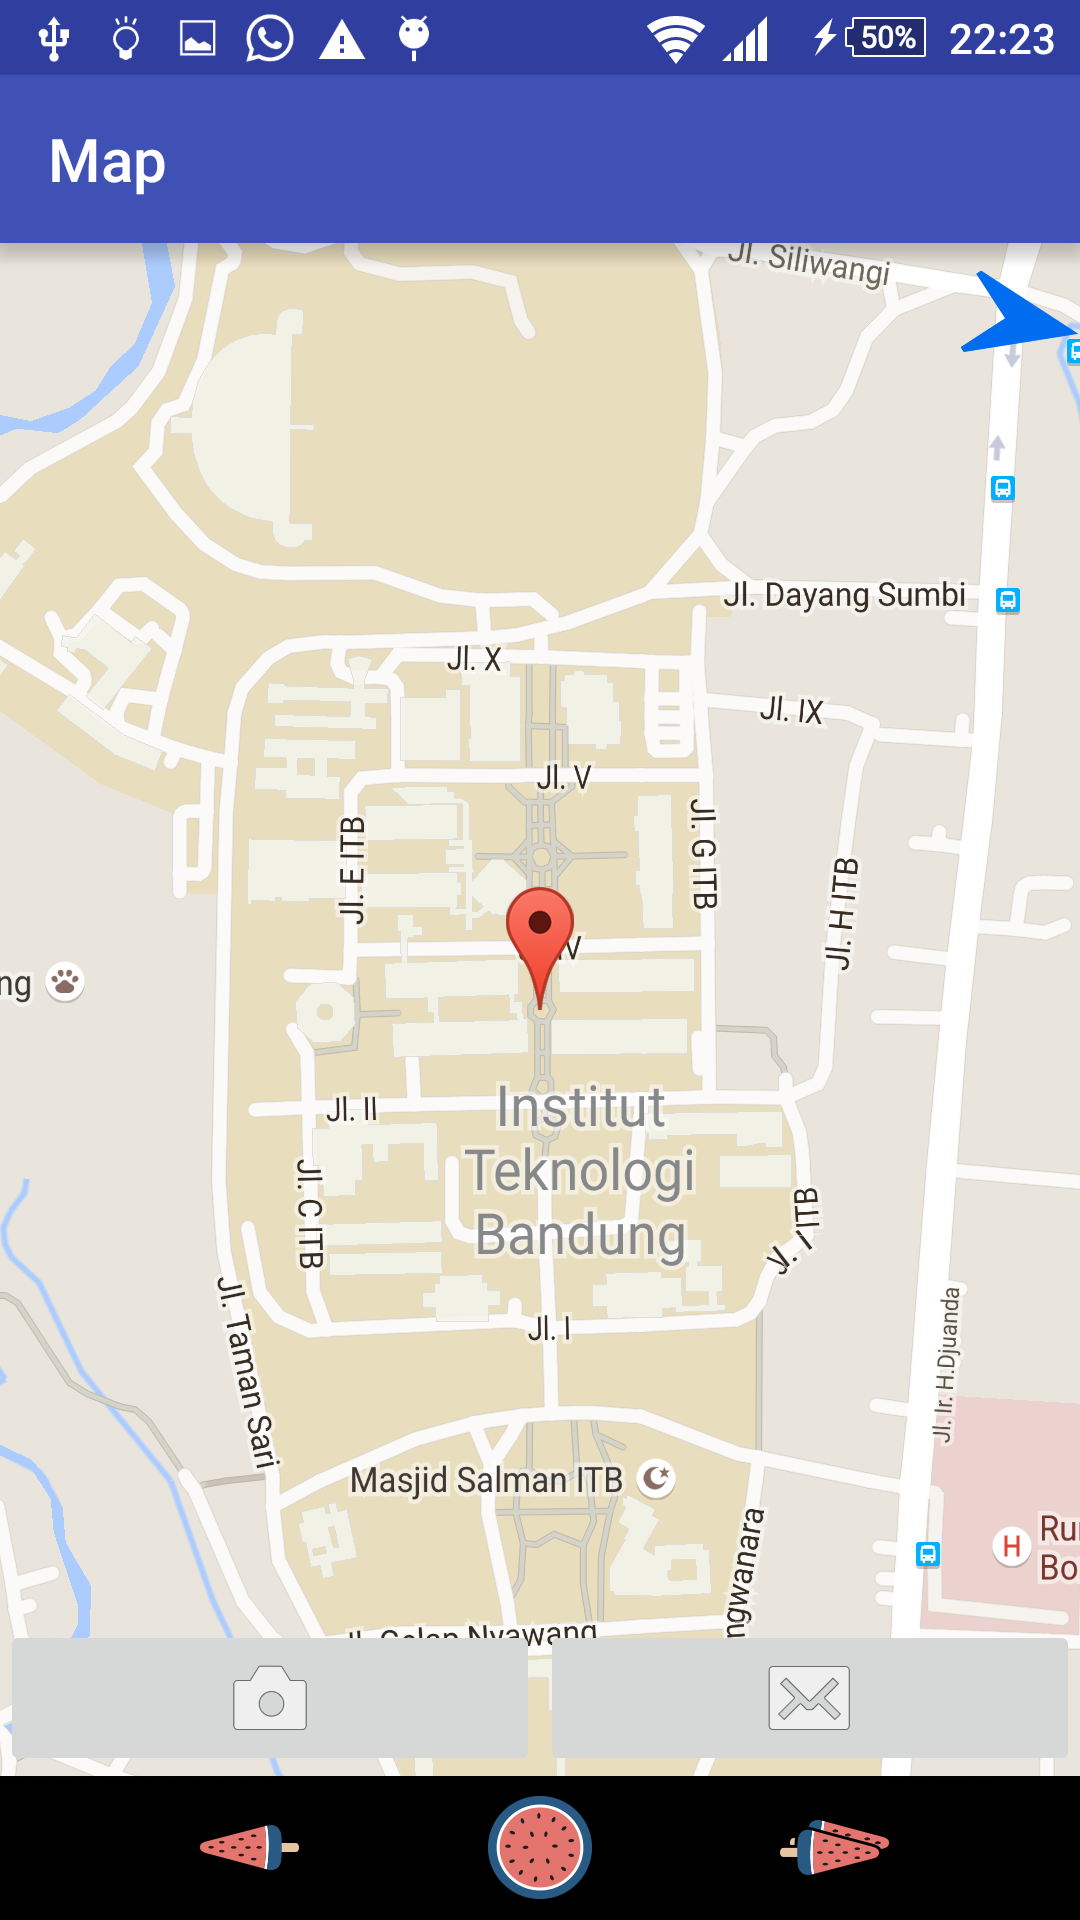
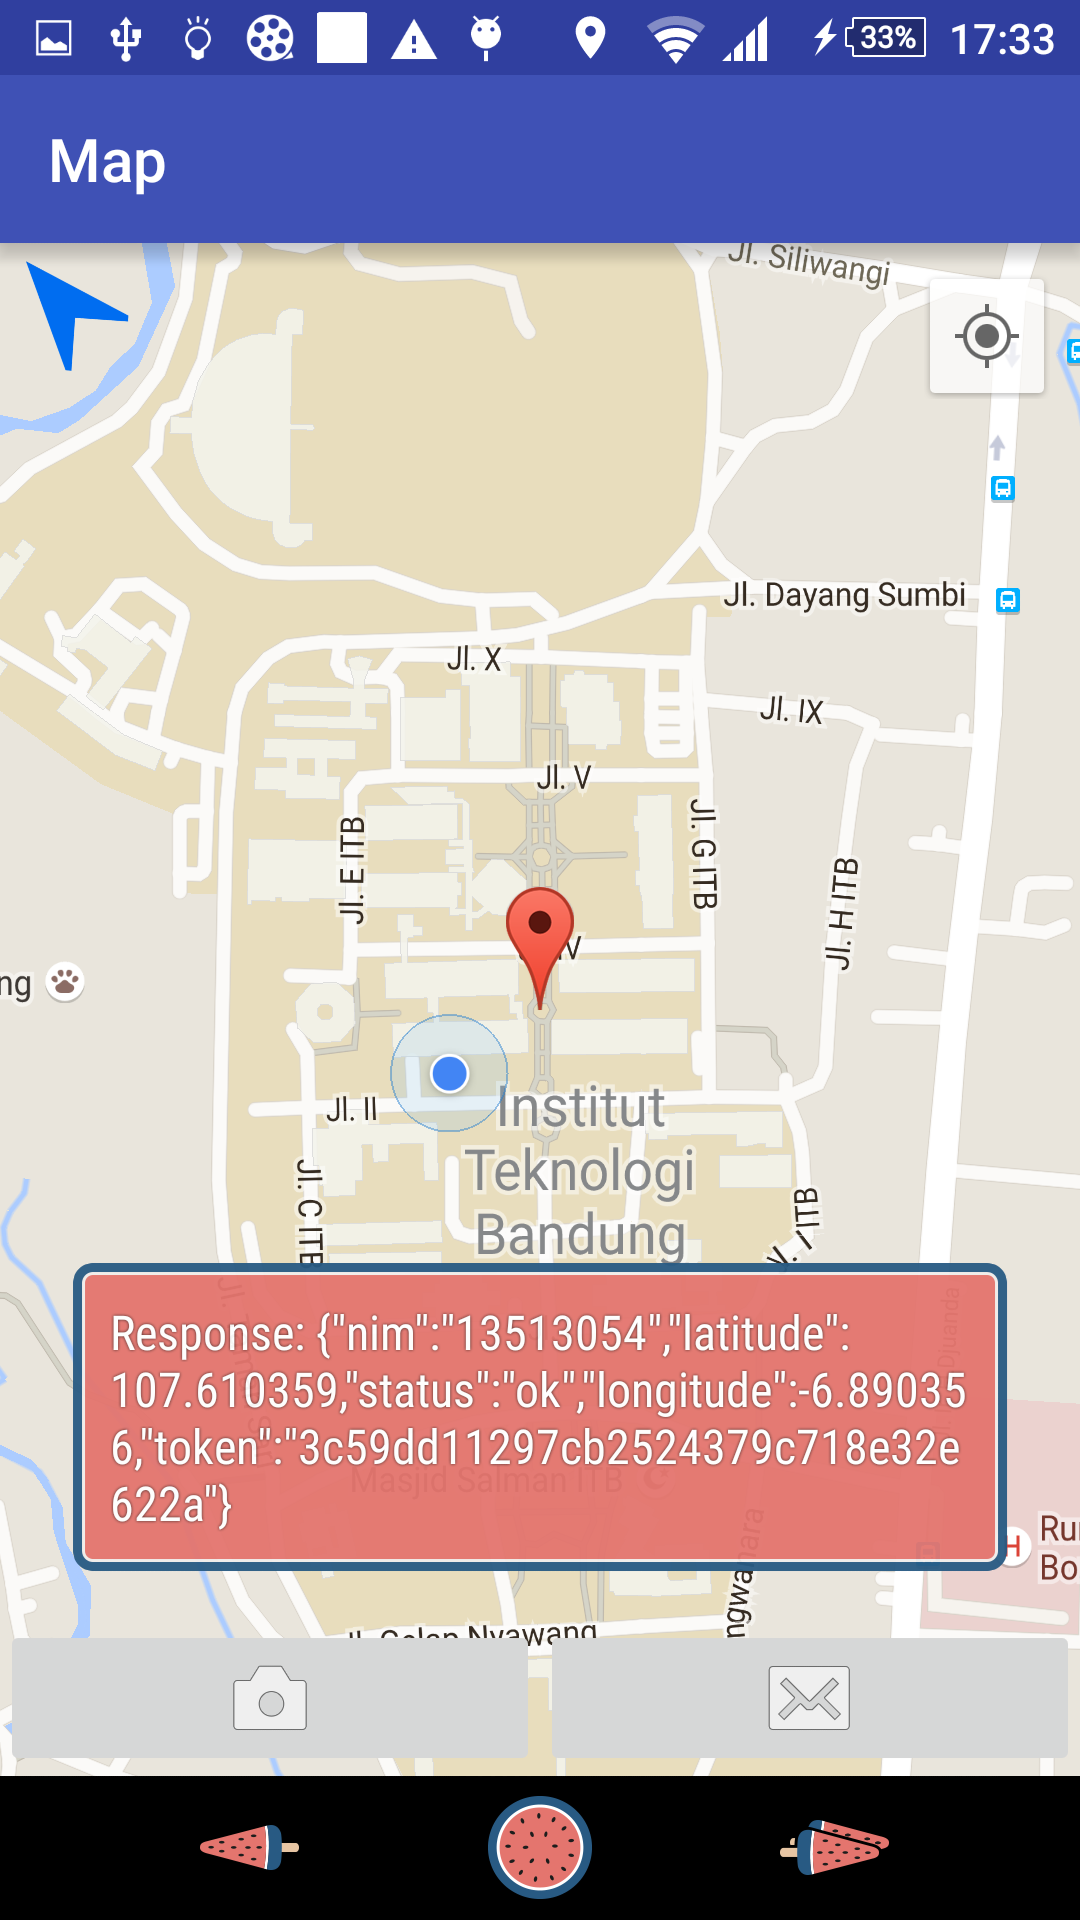
Updated Readme

diff --git a/ITB-Race/app/src/main/java/com/example/chairuniaulianusapati/itb_race/MapsActivity.java b/ITB-Race/app/src/main/java/com/example/chairuniaulianusapati/itb_race/MapsActivity.java
@@ -171,7 +171,7 @@ public class MapsActivity extends AppCompatActivity implements OnMapReadyCallbac
         }
         locationManager.requestLocationUpdates(bestProvider, 20000, 0, this);
         try{
-            destination = new LatLng(json.getDouble("latitude"), json.getDouble("longitude"));
+            destination = new LatLng(json.getDouble("longitude"), json.getDouble("latitude"));
         }catch(JSONException e){}
         mMap.addMarker(new MarkerOptions().position(destination).title("Marker in Destination"));
         mMap.moveCamera(CameraUpdateFactory.newLatLng(destination));

diff --git a/README.md b/README.md
@@ -22,21 +22,37 @@ Daftar kemungkinan jawaban lokasi sudah ditentukan sebagai berikut.
 Skenario dari aplikasi yang dibangun sebagai berikut
 
 * Pengguna akan disambut dengan halaman utama sebagai berikut.
+
 ![alt text](screenshot/Screenshot_2016-03-26-22-19-13.png)
+
 * Pengguna akan klik tombol "START", kemudian aplikasi akan request location pertama ke server.
-* Pengguna akan masuk ke halaman peta. Akan terdapat pin indikator lokasi tujuan dan kompas yang menghadap arah utara. Berikut tampilannya pada mode potrait.
+
+* Pengguna akan masuk ke halaman peta. Akan terdapat pin indikator lokasi tujuan, pin indikator lokasi sekarang, dan kompas yang menghadap arah utara. Berikut tampilannya pada mode potrait.
+
 ![alt text](screenshot/Screenshot_2016-03-26-22-23-29.png)
+
 * Berikut tampilan pada mode landscape.
+
 ![alt text](screenshot/Screenshot_2016-03-26-22-23-48.png)
+
 * Pengguna dapat berjalan menuju lokasi. Ketika pengguna sampai, pengguna dapat menggunakan fitur foto-diri untuk foto dirinya di lokasi dengan klik tombol dengan ikon kamera. Berikut tampilan fitur foto-diri.
+
 ![alt text](screenshot/Screenshot_2016-03-26-22-24-14.png)
+
 * Setelah foto diri, pengguna dapat mengirimkan jawaban lokasinya menggunakan fitur submit answer. Berikut tampilan fitur submit answer.
+
 ![alt text](screenshot/Screenshot_2016-03-26-22-24-30.png)
+
 * Pengguna dapat memilih salah satu pilihan jawaban dari drop down list yang ada, kemudian klik tombol submit untuk menjawab sebagai berikut.
+
 ![alt text](screenshot/Screenshot_2016-03-26-22-24-39.png)
+
 * Jika jawaban benar, pengguna akan kembali ke peta untuk melanjutkan pencarian lokasi. Server akan mengirimkan lokasi baru untuk dicari. Sementara, jika jawaban salah, pengguna juga akan kembali ke peta namun tetap menggunakan lokasinya yang lama.
+
 * Hal ini akan berulang sampai pengguna berhasil menemukan tiga buah lokasi benar, ini ditandai dengan pesan finish dari server. Kemudian, pengguna akan masuk ke halaman finish yang akan menampilkan pesan selamat. Berikut tampilannya.
+
 ![alt text](screenshot/Screenshot_2016-03-26-22-24-47.png)
+
 
 ## Lokasi Source Code dan Binary
 Source Code: ITB-Race
